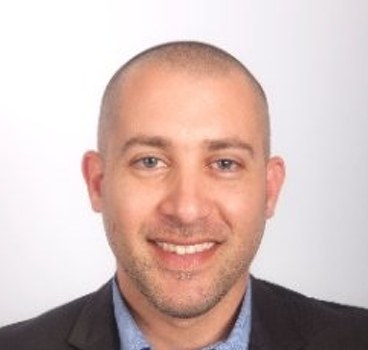
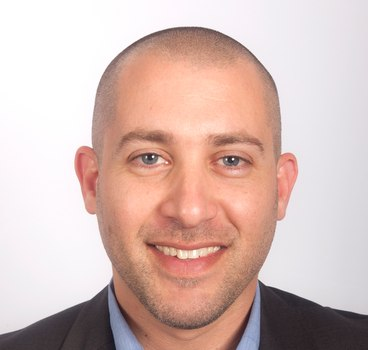
Add new speaker info

Changed region(s): [[0.0, 0.0571, 1.0, 1.0], [0.3288, 0.3714, 0.5082, 0.5143], [0.1793, 0.9714, 0.2092, 1.0]]

diff --git a/index.html b/index.html
@@ -285,6 +285,19 @@
                 </div><!-- end speaker-item -->
             </div><!-- end col-lg-4 -->
             <div class="col-lg-4 col-sm-6">
+                <div class="speaker-item speaker-item2">
+                    <div class="speaker-img-box">
+                        <img src="images/team12.jpg" alt="Ron Nahum">
+                    </div>
+                    <div class="speaker-detail">
+                        <div class="speaker-title-box">
+                            <h3 class="speaker__title">Ron Nahum</h3>
+                            <p class="speaker__meta">COO, Truvid</p>
+                        </div>
+                    </div>
+                </div><!-- end speaker-item -->
+            </div><!-- end col-lg-4 -->
+            <div class="col-lg-4 col-sm-6">
                 <div class="speaker-item speaker-item10">
                     <div class="speaker-img-box">
                         <img src="images/team10.jpg" alt="Wayne Wen">
